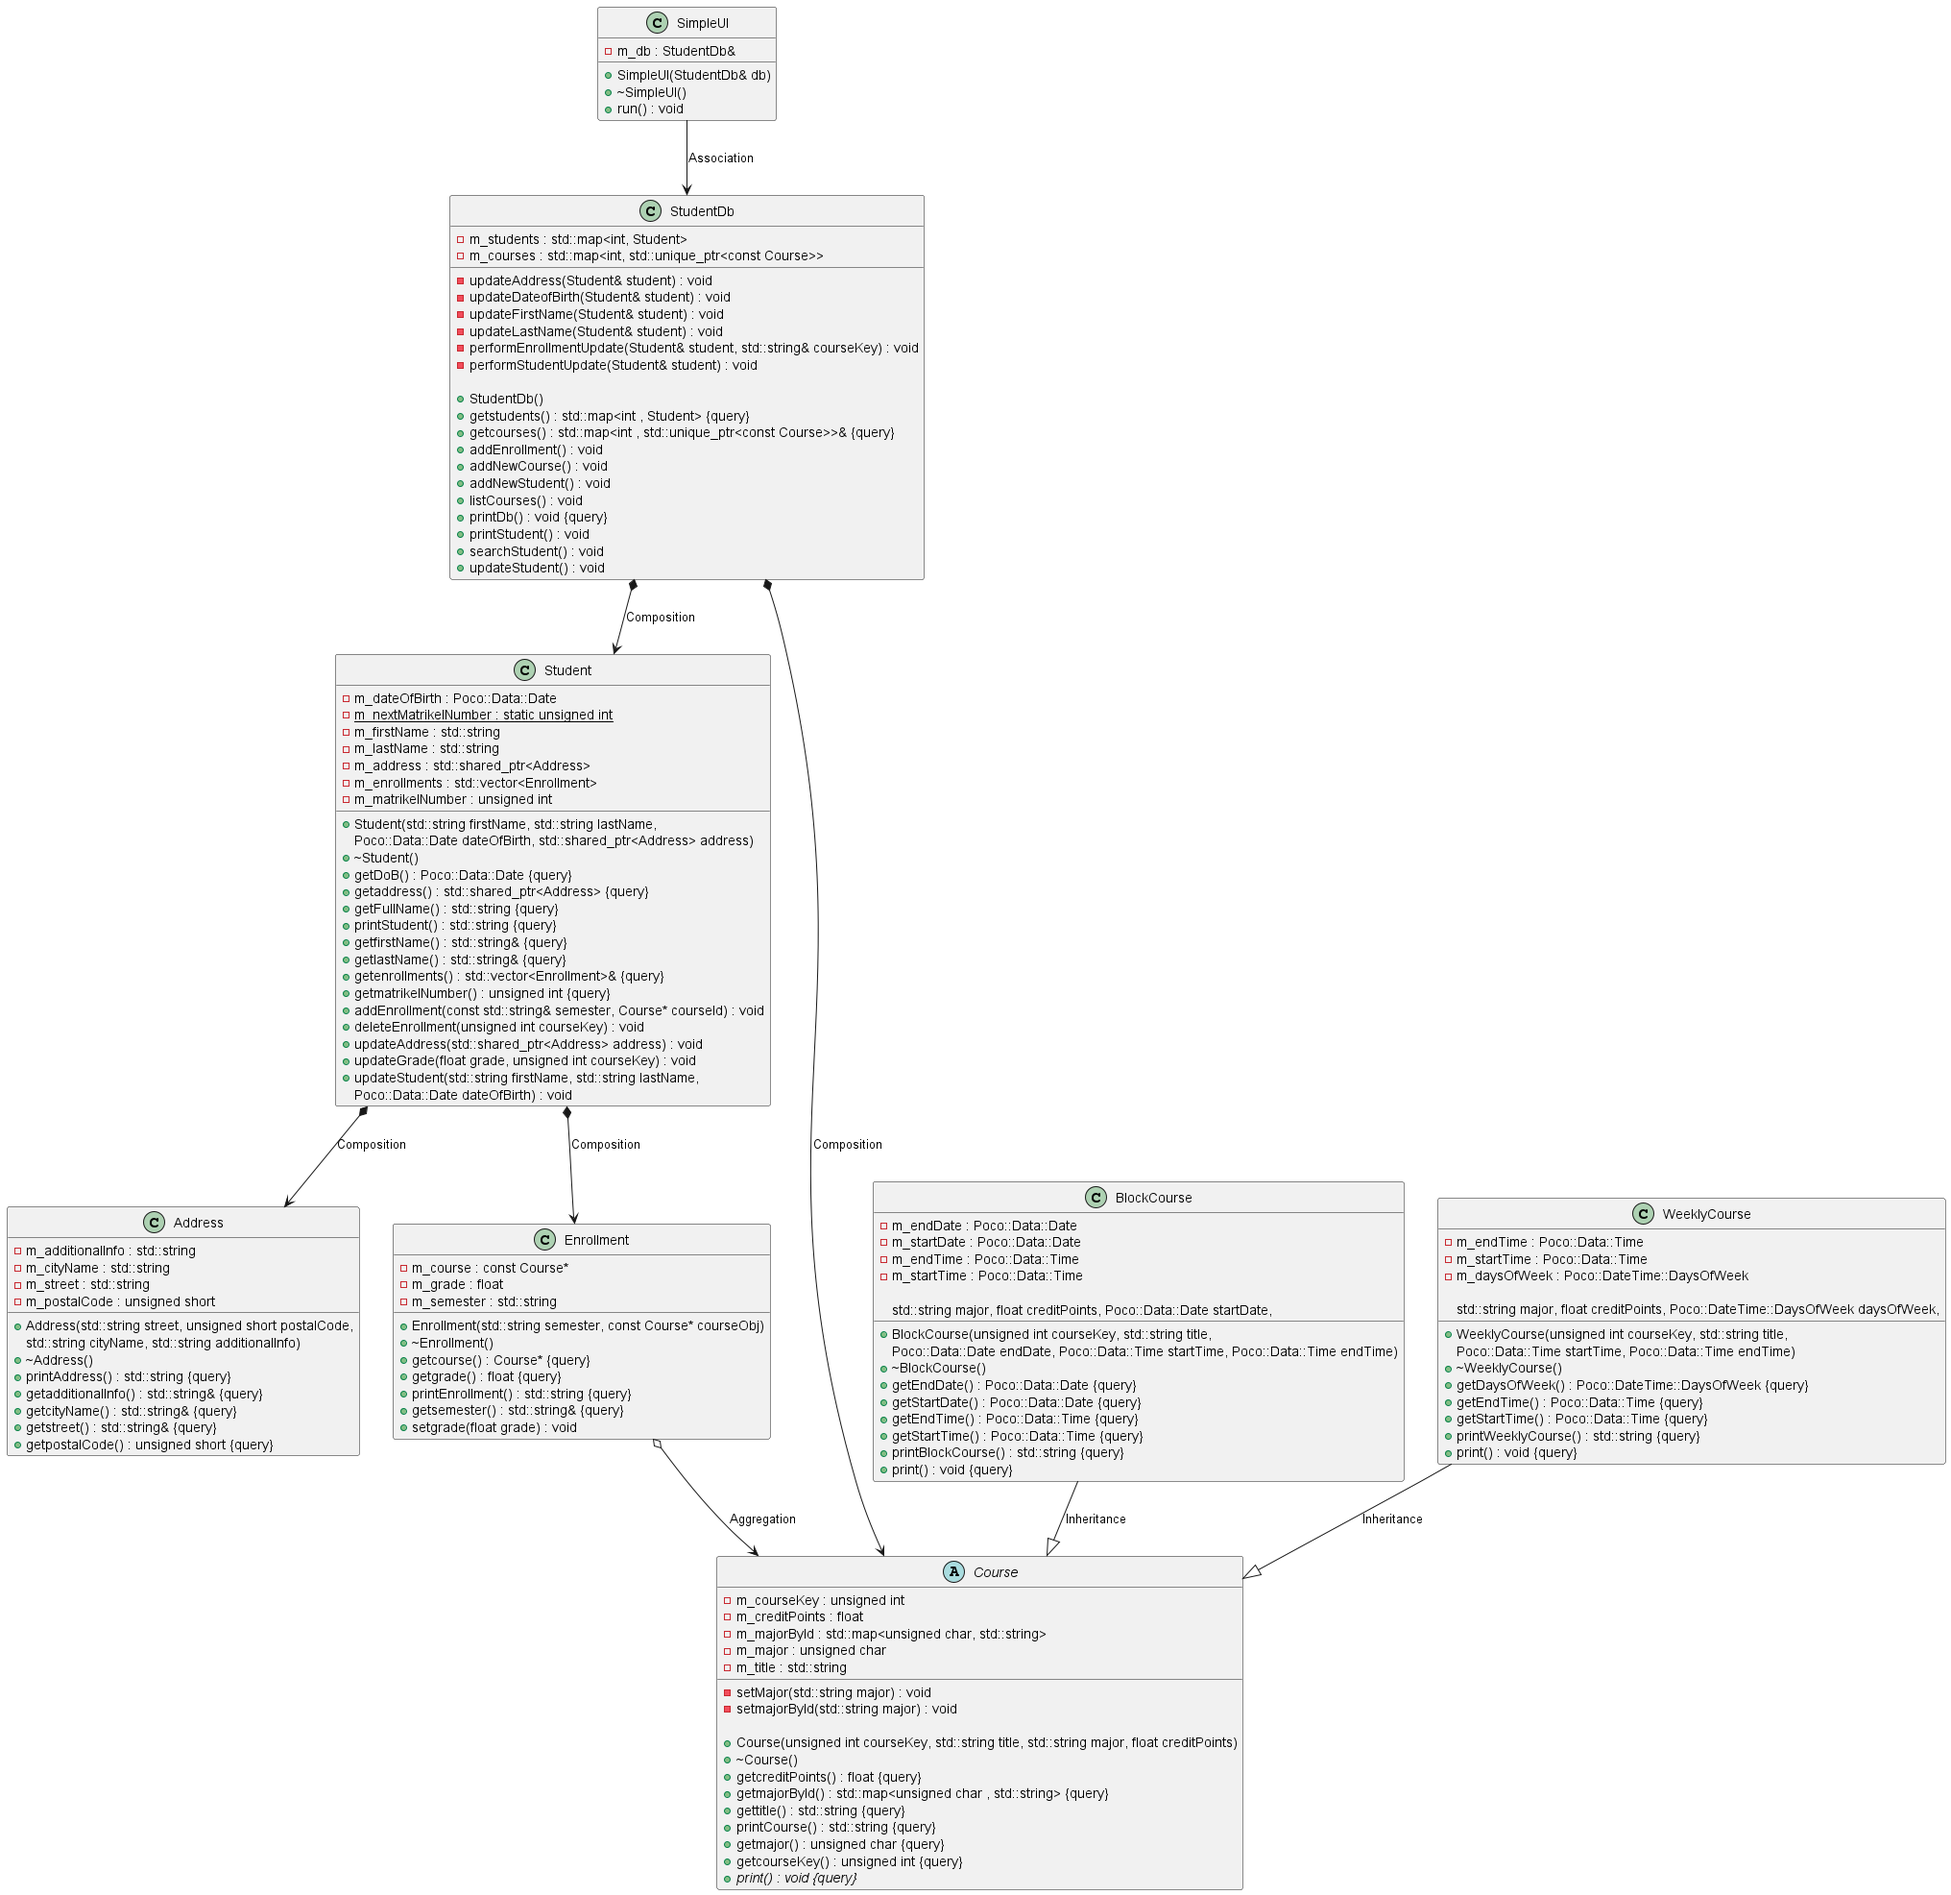
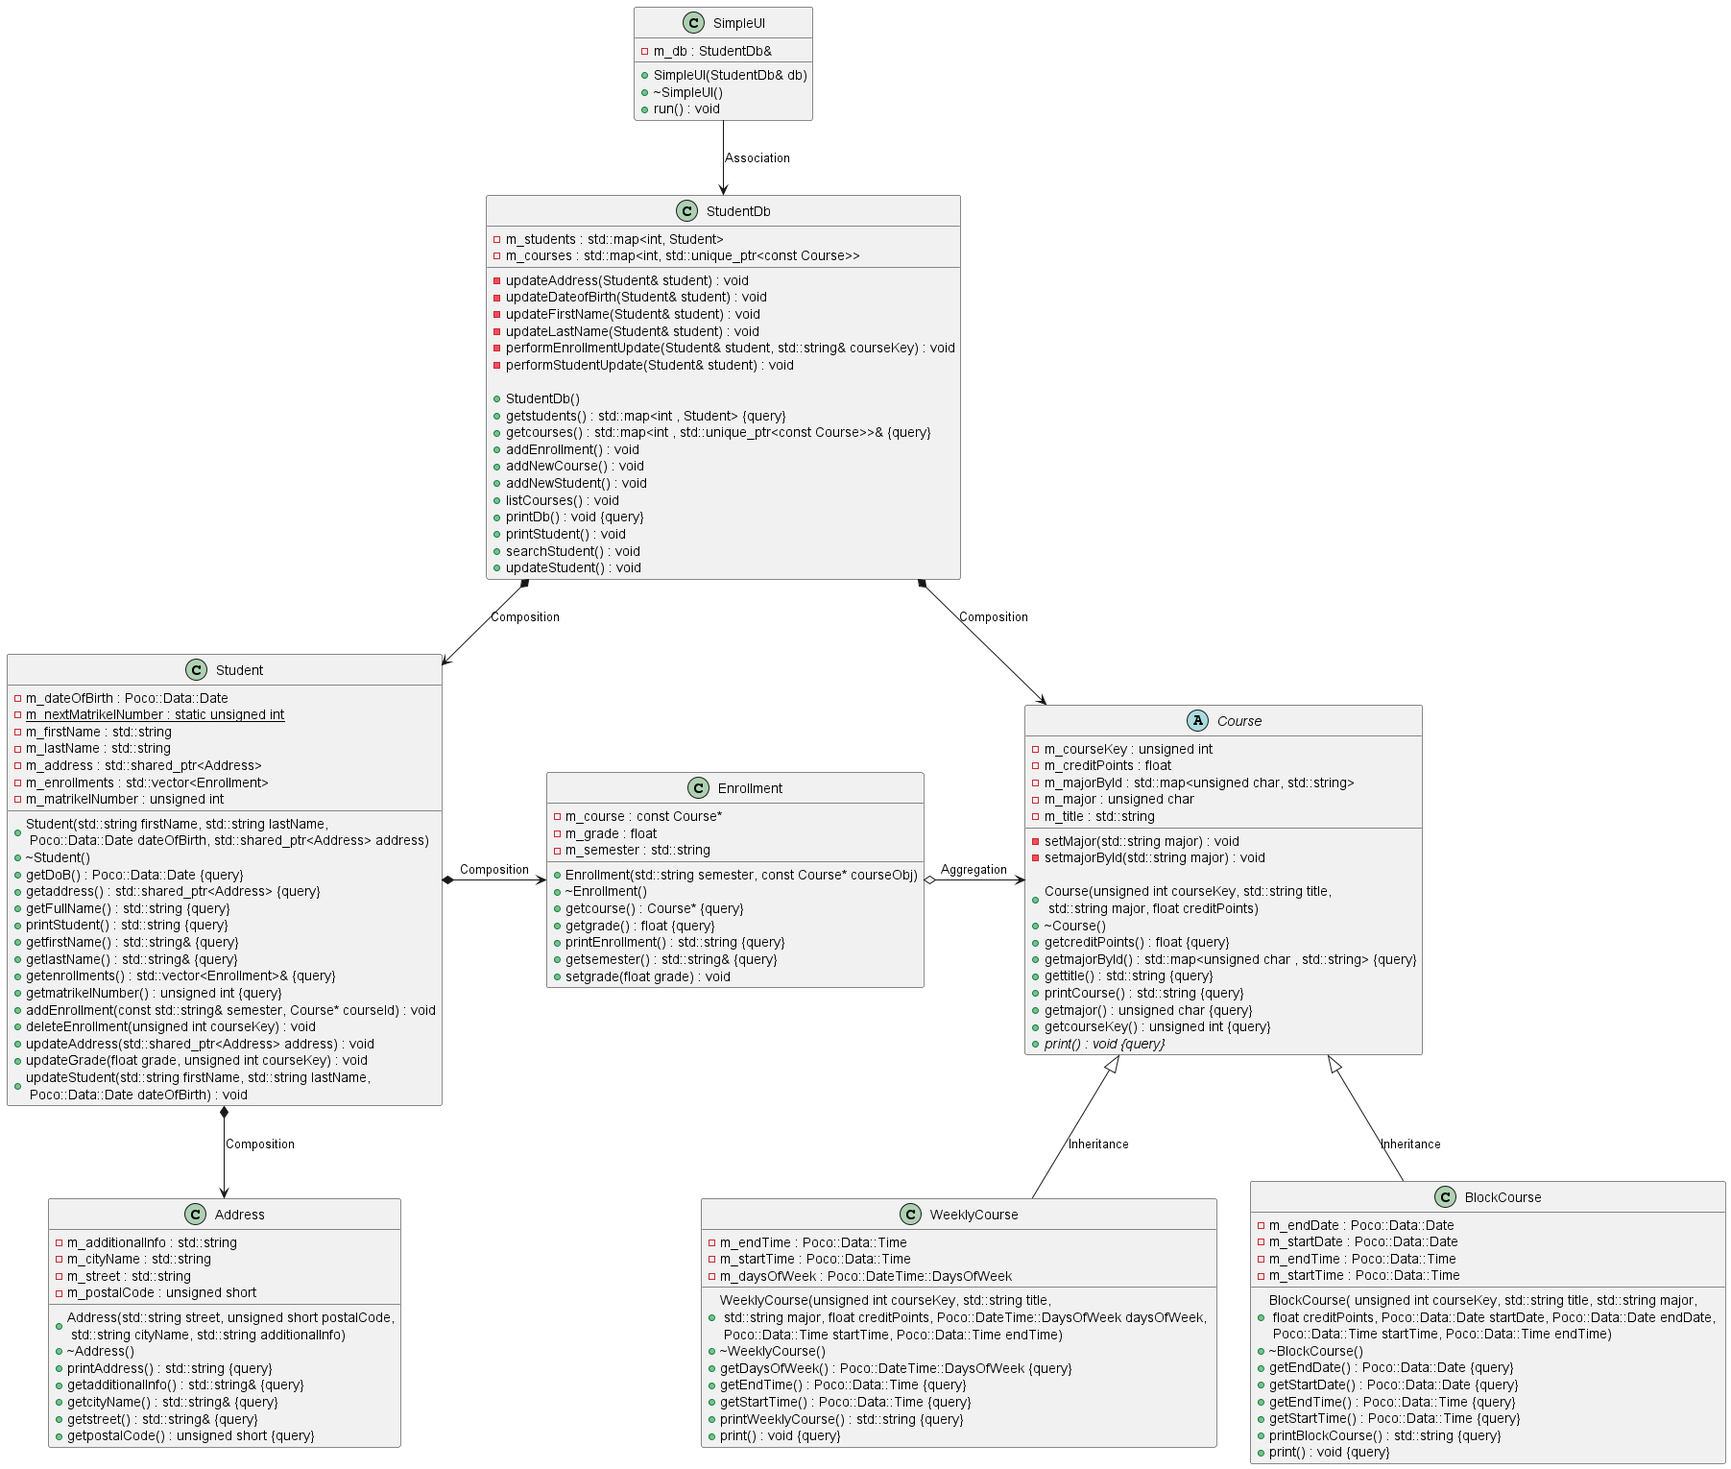
14-Jan-24 correcting UML diagram for representation

diff --git a/StudentDB/html/formatterfile_8cpp.html b/StudentDB/html/formatterfile_8cpp.html
@@ -117,7 +117,7 @@ Functions</h2></td></tr>
 <a name="details" id="details"></a><h2 class="groupheader">Detailed Description</h2>
 <div class="textblock"><p><br  />
  Created on: 11-Jan-2024 </p><dl class="section author"><dt>Author</dt><dd>Girish Tabaraddi</dd></dl>
-<p>Built on: Sunday 14-01-2024 21:20:24 </p>
+<p>Built on: Sunday 14-01-2024 22:37:44 </p>
 </div><h2 class="groupheader">Function Documentation</h2>
 <a id="a3240f3b5f4e025b204c0e3da1288752c" name="a3240f3b5f4e025b204c0e3da1288752c"></a>
 <h2 class="memtitle"><span class="permalink"><a href="#a3240f3b5f4e025b204c0e3da1288752c">&#9670;&#160;</a></span>getDayOfWeekFromString()</h2>

diff --git a/StudentDB/html/formatterfile_8h.html b/StudentDB/html/formatterfile_8h.html
@@ -129,7 +129,7 @@ Functions</h2></td></tr>
 <a name="details" id="details"></a><h2 class="groupheader">Detailed Description</h2>
 <div class="textblock"><p><br  />
  Created on: 11-Jan-2024 </p><dl class="section author"><dt>Author</dt><dd>Girish Tabaraddi</dd></dl>
-<p>Built on: Sunday 14-01-2024 21:20:24 </p>
+<p>Built on: Sunday 14-01-2024 22:37:44 </p>
 </div><h2 class="groupheader">Function Documentation</h2>
 <a id="a3240f3b5f4e025b204c0e3da1288752c" name="a3240f3b5f4e025b204c0e3da1288752c"></a>
 <h2 class="memtitle"><span class="permalink"><a href="#a3240f3b5f4e025b204c0e3da1288752c">&#9670;&#160;</a></span>getDayOfWeekFromString()</h2>

diff --git a/StudentDB/html/_address_8cpp.html b/StudentDB/html/_address_8cpp.html
@@ -96,7 +96,7 @@ $(document).ready(function(){initNavTree('_address_8cpp.html',''); initResizable
 </div><a name="details" id="details"></a><h2 class="groupheader">Detailed Description</h2>
 <div class="textblock"><p><br  />
  Created on: 10-Jan-2024 </p><dl class="section author"><dt>Author</dt><dd>Girish Tabaraddi</dd></dl>
-<p>Built on: Sunday 14-01-2024 21:20:24 </p>
+<p>Built on: Sunday 14-01-2024 22:37:44 </p>
 </div></div><!-- contents -->
 </div><!-- doc-content -->
 <!-- start footer part -->

diff --git a/StudentDB/html/_block_course_8cpp.html b/StudentDB/html/_block_course_8cpp.html
@@ -96,7 +96,7 @@ $(document).ready(function(){initNavTree('_block_course_8cpp.html',''); initResi
 </div><a name="details" id="details"></a><h2 class="groupheader">Detailed Description</h2>
 <div class="textblock"><p><br  />
  Created on: 14-Jan-2024 </p><dl class="section author"><dt>Author</dt><dd>Girish Tabaraddi</dd></dl>
-<p>Built on: Sunday 14-01-2024 21:20:24 </p>
+<p>Built on: Sunday 14-01-2024 22:37:44 </p>
 </div></div><!-- contents -->
 </div><!-- doc-content -->
 <!-- start footer part -->

diff --git a/StudentDB/html/_course_8cpp.html b/StudentDB/html/_course_8cpp.html
@@ -98,7 +98,7 @@ $(document).ready(function(){initNavTree('_course_8cpp.html',''); initResizable(
 </div><a name="details" id="details"></a><h2 class="groupheader">Detailed Description</h2>
 <div class="textblock"><p><br  />
  Created on: 09-Jan-2024 </p><dl class="section author"><dt>Author</dt><dd>Girish Tabaraddi</dd></dl>
-<p>Built on: Sunday 14-01-2024 21:20:24 </p>
+<p>Built on: Sunday 14-01-2024 22:37:44 </p>
 </div></div><!-- contents -->
 </div><!-- doc-content -->
 <!-- start footer part -->

diff --git a/StudentDB/html/_enrollment_8cpp.html b/StudentDB/html/_enrollment_8cpp.html
@@ -96,7 +96,7 @@ $(document).ready(function(){initNavTree('_enrollment_8cpp.html',''); initResiza
 </div><a name="details" id="details"></a><h2 class="groupheader">Detailed Description</h2>
 <div class="textblock"><p><br  />
  Created on: 09-Jan-2024 </p><dl class="section author"><dt>Author</dt><dd>Girish Tabaraddi</dd></dl>
-<p>Built on: Sunday 14-01-2024 21:20:24 </p>
+<p>Built on: Sunday 14-01-2024 22:37:44 </p>
 </div></div><!-- contents -->
 </div><!-- doc-content -->
 <!-- start footer part -->

diff --git a/StudentDB/html/_simple_u_i_8cpp.html b/StudentDB/html/_simple_u_i_8cpp.html
@@ -96,7 +96,7 @@ $(document).ready(function(){initNavTree('_simple_u_i_8cpp.html',''); initResiza
 </div><a name="details" id="details"></a><h2 class="groupheader">Detailed Description</h2>
 <div class="textblock"><p><br  />
  Created on: 13-Jan-2024 </p><dl class="section author"><dt>Author</dt><dd>Girish Tabaraddi</dd></dl>
-<p>Built on: Sunday 14-01-2024 21:20:24 </p>
+<p>Built on: Sunday 14-01-2024 22:37:44 </p>
 </div></div><!-- contents -->
 </div><!-- doc-content -->
 <!-- start footer part -->

diff --git a/StudentDB/html/_student_8cpp.html b/StudentDB/html/_student_8cpp.html
@@ -96,7 +96,7 @@ $(document).ready(function(){initNavTree('_student_8cpp.html',''); initResizable
 </div><a name="details" id="details"></a><h2 class="groupheader">Detailed Description</h2>
 <div class="textblock"><p><br  />
  Created on: 09-Jan-2024 </p><dl class="section author"><dt>Author</dt><dd>Girish Tabaraddi</dd></dl>
-<p>Built on: Sunday 14-01-2024 21:20:24 </p>
+<p>Built on: Sunday 14-01-2024 22:37:44 </p>
 </div></div><!-- contents -->
 </div><!-- doc-content -->
 <!-- start footer part -->

diff --git a/StudentDB/html/_student_db_8cpp.html b/StudentDB/html/_student_db_8cpp.html
@@ -96,7 +96,7 @@ $(document).ready(function(){initNavTree('_student_db_8cpp.html',''); initResiza
 </div><a name="details" id="details"></a><h2 class="groupheader">Detailed Description</h2>
 <div class="textblock"><p><br  />
  Created on: 09-Jan-2024 </p><dl class="section author"><dt>Author</dt><dd>Girish Tabaraddi</dd></dl>
-<p>Built on: Sunday 14-01-2024 21:20:24 </p>
+<p>Built on: Sunday 14-01-2024 22:37:44 </p>
 </div></div><!-- contents -->
 </div><!-- doc-content -->
 <!-- start footer part -->

diff --git a/StudentDB/html/_weekly_course_8cpp.html b/StudentDB/html/_weekly_course_8cpp.html
@@ -96,7 +96,7 @@ $(document).ready(function(){initNavTree('_weekly_course_8cpp.html',''); initRes
 </div><a name="details" id="details"></a><h2 class="groupheader">Detailed Description</h2>
 <div class="textblock"><p><br  />
  Created on: 14-Jan-2024 </p><dl class="section author"><dt>Author</dt><dd>Girish Tabaraddi</dd></dl>
-<p>Built on: Sunday 14-01-2024 21:20:24 </p>
+<p>Built on: Sunday 14-01-2024 22:37:44 </p>
 </div></div><!-- contents -->
 </div><!-- doc-content -->
 <!-- start footer part -->

diff --git a/StudentDB/html/_address_8h.html b/StudentDB/html/_address_8h.html
@@ -108,7 +108,7 @@ Classes</h2></td></tr>
 <a name="details" id="details"></a><h2 class="groupheader">Detailed Description</h2>
 <div class="textblock"><p><br  />
  Created on: 10-Jan-2024 </p><dl class="section author"><dt>Author</dt><dd>Girish Tabaraddi</dd></dl>
-<p>Built on: Sunday 14-01-2024 21:20:24 </p>
+<p>Built on: Sunday 14-01-2024 22:37:44 </p>
 </div></div><!-- contents -->
 </div><!-- doc-content -->
 <!-- start footer part -->

diff --git a/StudentDB/html/_block_course_8h.html b/StudentDB/html/_block_course_8h.html
@@ -107,7 +107,7 @@ Classes</h2></td></tr>
 <a name="details" id="details"></a><h2 class="groupheader">Detailed Description</h2>
 <div class="textblock"><p><br  />
  Created on: 14-Jan-2024 </p><dl class="section author"><dt>Author</dt><dd>Girish Tabaraddi</dd></dl>
-<p>Built on: Sunday 14-01-2024 21:20:24 </p>
+<p>Built on: Sunday 14-01-2024 22:37:44 </p>
 </div></div><!-- contents -->
 </div><!-- doc-content -->
 <!-- start footer part -->
